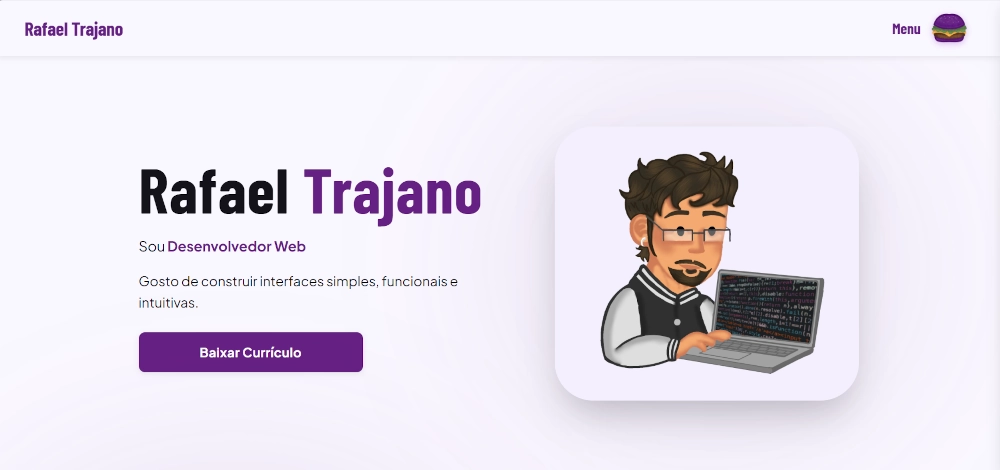
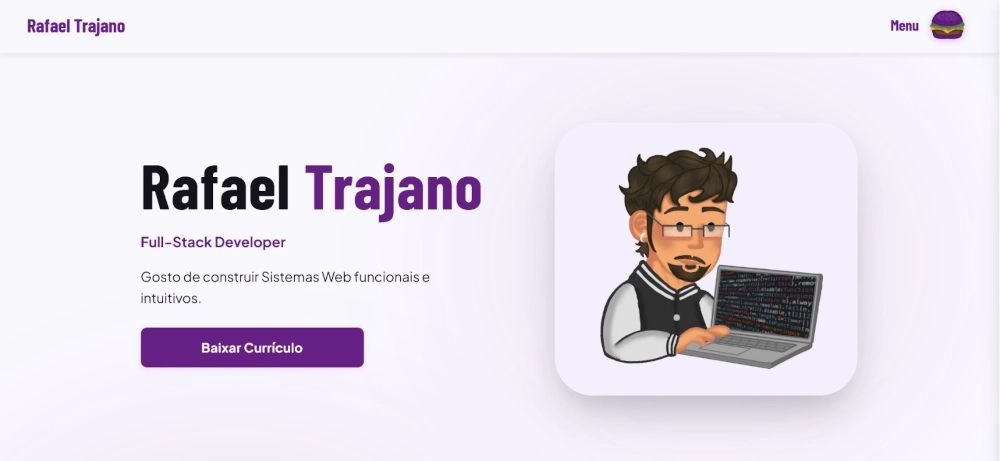
atualizando tecnologias

diff --git a/index.html b/index.html
@@ -2,19 +2,19 @@
 <html lang="pt-BR">
 <head>
     <meta charset="UTF-8">
-    <title>Rafael Trajano | Front-end Developer</title>
+    <title>Rafael Trajano | Full-Stack Developer</title>
     <meta name="viewport" content="width=device-width, initial-scale=1.0">
 
     <meta name="author" content="Rafael Trajano">
     <meta name="theme-color" content="#6D2A89">
-    <meta name="description" content="Portfólio de Rafael Trajano, Front-end Developer especializado em HTML, CSS, JavaScript e React. Conheça meus projetos e habilidades.">
+    <meta name="description" content="Portfólio de Rafael Trajano, Full-Stack Developer especializado em JavaScript, React, Python, FastAPI e testes automatizados (Cucumber, Cypress).">
 
     <meta name="robots" content="index, follow">
 
     <!-- Open Graph -->
-    <meta property="og:title" content="Rafael Trajano | Front-end Developer">
+    <meta property="og:title" content="Rafael Trajano | Full-Stack Developer">
     <meta property="og:type" content="website">
-    <meta property="og:description" content="Conheça o portfólio de Rafael Trajano, Front-end Developer especializado em HTML, CSS, JavaScript e React.">
+    <meta property="og:description" content="Conheça o portfólio de Rafael Trajano, Full-Stack Developer especializado em JavaScript, React, Python, FastAPI e testes automatizados (Cucumber, Cypress).">
     <meta property="og:locale" content="pt_BR">
     <meta property="og:url" content="https://rafaeltrajano.netlify.app/">
     <meta property="og:site_name" content="Rafael Trajano">
@@ -43,7 +43,7 @@
       "@type": "Person",
       "name": "Rafael Trajano",
       "url": "https://rafaeltrajano.netlify.app/",
-      "jobTitle": "Front-end Developer",
+      "jobTitle": "Full-Stack Developer",
       "sameAs": [
         "https://github.com/rafael-trajano",
         "https://www.linkedin.com/in/rafael-trajano"
@@ -97,8 +97,8 @@
     <section id="home" class="home">
         <div class="home-texto">
             <h1 class="animar">Rafael <span>Trajano</span></h1>
-            <p class="home-subtitulo"><strong>Front-end Developer</strong></p>
-            <p class="home-desc">Gosto de construir interfaces simples, funcionais e intuitivas.</p>
+            <p class="home-subtitulo"><strong>Full-Stack Developer</strong></p>
+            <p class="home-desc">Gosto de construir Sistemas Web funcionais e intuitivos.</p>
             <div class="home-cta">
                 <a href="arquivos/curriculo_rafael_trajano.pdf" download class="cta">Baixar Currículo</a>
             </div>
@@ -106,7 +106,7 @@
         <div class="home-imagem-wrap">
             <div class="home-imagem-glow" aria-hidden="true"></div>
             <div class="home-imagem">
-                <img src="imagens/desenho-rafael.webp" alt="Ilustração de Rafael Trajano, Front-end Developer">
+                <img src="imagens/desenho-rafael.webp" alt="Ilustração de Rafael Trajano, Full-Stack Developer">
             </div>
         </div>
     </section>
@@ -117,7 +117,7 @@
     <div class="sobre-imagem-wrap animar">
       <div class="sobre-imagem-glow" aria-hidden="true"></div>
       <div class="sobre-imagem">
-        <img src="imagens/desenho-rafael.webp" alt="Ilustração de Rafael Trajano, Front-end Developer">
+        <img src="imagens/desenho-rafael.webp" alt="Ilustração de Rafael Trajano, Full-Stack Developer" loading="lazy">
       </div>
     </div>
     <div class="sobre-conteudo animar">
@@ -125,8 +125,8 @@
       <h2>Minha Jornada</h2>
       <div class="texto-sobre">
         <p>
-          Olá, me chamo Rafael Trajano, sou graduando em <strong>Ciência da Computação</strong> pela Universidade Estadual da Paraíba, com conclusão prevista para 2027,
-          e possuo formação complementar pela <strong>Meta</strong>, com cursos voltados ao <strong>Desenvolvimento Front-end</strong>.
+          Olá, me chamo Rafael Trajano, sou graduando em <strong>Ciência da Computação</strong> pela Universidade Estadual da Paraíba, com conclusão prevista para dezembro de 2027,
+          e possuo formação complementar pela <strong>Meta</strong>, com cursos voltados ao <strong>Desenvolvimento Web</strong>.
         </p>
         <p>
           Além das habilidades técnicas, sou comunicativo, empático e paciente, qualidades que me ajudam a sempre procurar entender a perspectiva das outras pessoas.
@@ -142,23 +142,69 @@
             <span class="tecnologias-label">Tecnologias</span>
             <h2>Minha Stack</h2>
         </div>
-        <div class="tecnologias-lista">
-            <div class="tecnologias-card animar">
-                <i class="icone icone-html5" aria-hidden="true"></i>
-                <p>HTML5</p>
+        <div class="tecnologias-carrossel animar" aria-label="Tecnologias que utilizo">
+          <div class="tecnologias-track" id="tecnologias-track">
+            <div class="tecnologias-lista" id="tecnologias-lista">
+                <div class="tecnologias-card">
+                    <i class="icone icone-javascript" aria-hidden="true"></i>
+                    <p>JavaScript</p>
+                </div>
+                <div class="tecnologias-card">
+                    <i class="icone icone-react" aria-hidden="true"></i>
+                    <p>React.js</p>
+                </div>
+                <div class="tecnologias-card">
+                    <i class="icone icone-python" aria-hidden="true"></i>
+                    <p>Python</p>
+                </div>
+                <div class="tecnologias-card">
+                    <i class="icone icone-fastapi" aria-hidden="true"></i>
+                    <p>FastAPI</p>
+                </div>
+                <div class="tecnologias-card">
+                    <i class="icone icone-postgresql" aria-hidden="true"></i>
+                    <p>PostgreSQL</p>
+                </div>
+                <div class="tecnologias-card">
+                    <i class="icone icone-cucumber" aria-hidden="true"></i>
+                    <p>Cucumber</p>
+                </div>
+                <div class="tecnologias-card">
+                    <i class="icone icone-cypressio" aria-hidden="true"></i>
+                    <p>Cypress.io</p>
+                </div>
             </div>
-            <div class="tecnologias-card animar">
-                <i class="icone icone-css3" aria-hidden="true"></i>
-                <p>CSS3</p>
+            <div class="tecnologias-lista" aria-hidden="true">
+                <div class="tecnologias-card">
+                    <i class="icone icone-javascript" aria-hidden="true"></i>
+                    <p>JavaScript</p>
+                </div>
+                <div class="tecnologias-card">
+                    <i class="icone icone-react" aria-hidden="true"></i>
+                    <p>React.js</p>
+                </div>
+                <div class="tecnologias-card">
+                    <i class="icone icone-python" aria-hidden="true"></i>
+                    <p>Python</p>
+                </div>
+                <div class="tecnologias-card">
+                    <i class="icone icone-fastapi" aria-hidden="true"></i>
+                    <p>FastAPI</p>
+                </div>
+                <div class="tecnologias-card">
+                    <i class="icone icone-postgresql" aria-hidden="true"></i>
+                    <p>PostgreSQL</p>
+                </div>
+                <div class="tecnologias-card">
+                    <i class="icone icone-cucumber" aria-hidden="true"></i>
+                    <p>Cucumber</p>
+                </div>
+                <div class="tecnologias-card">
+                    <i class="icone icone-cypressio" aria-hidden="true"></i>
+                    <p>Cypress.io</p>
+                </div>
             </div>
-            <div class="tecnologias-card animar">
-                <i class="icone icone-javascript" aria-hidden="true"></i>
-                <p>JavaScript</p>
-            </div>
-            <div class="tecnologias-card animar">
-                <i class="icone icone-react" aria-hidden="true"></i>
-                <p>React</p>
-            </div>
+          </div>
         </div>
     </section>
 
@@ -178,7 +224,7 @@
         <!-- Projeto 1 — VoltControl -->
         <article class="projetos-card animar">
           <div class="projetos-img-wrap">
-            <img src="imagens/imagem-voltcontrol.webp" alt="VoltControl — Dashboard de Monitoramento de Energia">
+            <img src="imagens/imagem-voltcontrol.webp" alt="VoltControl — Dashboard de Monitoramento de Energia" loading="lazy">
             <span class="projetos-tec-badge">React · Chart.js · LocalStorage</span>
           </div>
           <div class="projetos-conteudo">
@@ -195,7 +241,7 @@
         <!-- Projeto 2 — Forrobodó Junino -->
         <article class="projetos-card animar">
           <div class="projetos-img-wrap">
-            <img src="imagens/imagem-forrobodojunino.webp" alt="Site para Evento — Forrobodó Junino">
+            <img src="imagens/imagem-forrobodojunino.webp" alt="Site para Evento — Forrobodó Junino" loading="lazy">
             <span class="projetos-tec-badge">HTML · CSS · JavaScript</span>
           </div>
           <div class="projetos-conteudo">
@@ -212,7 +258,7 @@
         <!-- Projeto 3 — Cachaça Forrobodó -->
         <article class="projetos-card animar">
           <div class="projetos-img-wrap">
-            <img src="imagens/imagem-forrobodo.webp" alt="Site Institucional — Cachaça Forrobodó">
+            <img src="imagens/imagem-forrobodo.webp" alt="Site Institucional — Cachaça Forrobodó" loading="lazy">
             <span class="projetos-tec-badge">HTML · CSS · JavaScript</span>
           </div>
           <div class="projetos-conteudo">
@@ -229,7 +275,7 @@
         <!-- Projeto 4 — Cachaça Afetuosa -->
         <article class="projetos-card animar">
           <div class="projetos-img-wrap">
-            <img src="imagens/imagem-afetuosa.webp" alt="Site Institucional — Cachaça Afetuosa">
+            <img src="imagens/imagem-afetuosa.webp" alt="Site Institucional — Cachaça Afetuosa" loading="lazy">
             <span class="projetos-tec-badge">HTML · CSS · JavaScript</span>
           </div>
           <div class="projetos-conteudo">
@@ -246,7 +292,7 @@
         <!-- Projeto 5 — Portfólio -->
         <article class="projetos-card animar">
           <div class="projetos-img-wrap">
-            <img src="imagens/imagem-portfolio.webp" alt="Portfólio — Rafael Trajano">
+            <img src="imagens/imagem-portfolio.webp" alt="Portfólio — Rafael Trajano" loading="lazy">
             <span class="projetos-tec-badge">HTML · CSS · JavaScript</span>
           </div>
           <div class="projetos-conteudo">

diff --git a/style.css b/style.css
@@ -160,6 +160,9 @@ img {
 .icone-postgresql        { -webkit-mask-image: url("tecnologias/postgresql.svg");        mask-image: url("tecnologias/postgresql.svg"); }
 .icone-python            { -webkit-mask-image: url("tecnologias/python.svg");            mask-image: url("tecnologias/python.svg"); }
 .icone-reactnative       { -webkit-mask-image: url("tecnologias/reactnative.svg");       mask-image: url("tecnologias/reactnative.svg"); }
+.icone-fastapi           { -webkit-mask-image: url("tecnologias/fastapi.svg");           mask-image: url("tecnologias/fastapi.svg"); }
+.icone-cypressio         { -webkit-mask-image: url("tecnologias/cypressio.svg");         mask-image: url("tecnologias/cypressio.svg"); }
+.icone-cucumber          { -webkit-mask-image: url("tecnologias/cucumber.svg");          mask-image: url("tecnologias/cucumber.svg"); }
 
 /* 5. LAYOUT */
 
@@ -564,7 +567,6 @@ main {
     border-radius: 48px;
     box-shadow: var(--shadow-lg);
     overflow: hidden;
-    animation: home-float 4s ease-in-out infinite;
 }
 
 .home-imagem img {
@@ -572,17 +574,6 @@ main {
     height: auto;
     object-fit: contain;
     display: block;
-}
-
-@keyframes home-float {
-    0%, 100% { transform: translateY(0) rotate(0deg); }
-    50% { transform: translateY(-10px) rotate(2deg); }
-}
-
-@media (prefers-reduced-motion: reduce) {
-    .home-imagem {
-        animation: none;
-    }
 }
 
 .home-cta {
@@ -670,7 +661,7 @@ main {
 /* Tecnologias */
 
 .tecnologias {
-    max-width: 900px;
+    max-width: 1100px;
 }
 
 .tecnologias-header {
@@ -684,16 +675,47 @@ main {
     font-size: clamp(1.5rem, 1rem + 2.5vw, 2rem);
 }
 
+/* Carrossel infinito */
+
+.tecnologias-carrossel {
+    position: relative;
+    width: 100%;
+    overflow: hidden;
+    -webkit-mask-image: linear-gradient(to right, transparent, black 60px, black calc(100% - 60px), transparent);
+    mask-image: linear-gradient(to right, transparent, black 60px, black calc(100% - 60px), transparent);
+}
+
+.tecnologias-track {
+    display: flex;
+    width: max-content;
+    animation: tecnologias-marquee 26s linear infinite;
+}
+
+.tecnologias-carrossel:hover .tecnologias-track {
+    animation-play-state: paused;
+}
+
 .tecnologias-lista {
-    display: grid;
-    grid-template-columns: repeat(4, 1fr);
+    display: flex;
+    align-items: center;
     gap: 20px;
-    justify-items: center;
+    padding: 4px 10px;
+}
+
+@keyframes tecnologias-marquee {
+    from { transform: translateX(0); }
+    to { transform: translateX(-50%); }
+}
+
+@media (prefers-reduced-motion: reduce) {
+    .tecnologias-track {
+        animation: none;
+    }
 }
 
 .tecnologias-card {
-    width: 100%;
-    max-width: 130px;
+    flex: 0 0 auto;
+    width: 130px;
     aspect-ratio: 1 / 1;
     background-color: var(--cor-branca);
     border-radius: var(--radius-lg);
@@ -706,10 +728,10 @@ main {
     transition: var(--transition);
 }
 
-.tecnologias-card.animar:hover {
+.tecnologias-card:hover {
     box-shadow: var(--shadow-md);
+    transform: translateY(-4px);
 }
-
 
 .tecnologias-card .icone {
     font-size: 40px;
@@ -997,15 +1019,8 @@ main {
     transform: translateY(0);
 }
 
-/* Delays escalonados — tecnologias */
-.tecnologias-lista .tecnologias-card:nth-child(1) { transition-delay: 0s; }
-.tecnologias-lista .tecnologias-card:nth-child(2) { transition-delay: 0.2s; }
-.tecnologias-lista .tecnologias-card:nth-child(3) { transition-delay: 0.4s; }
-.tecnologias-lista .tecnologias-card:nth-child(4) { transition-delay: 0.6s; }
-
 /* 9. RESPONSIVIDADE */
 
-/* ===== TABLET (1024px) ===== */
 @media (max-width: 1024px) {
     .home {
         gap: 50px;
@@ -1020,7 +1035,6 @@ main {
     }
 }
 
-/* ===== MOBILE (768px) ===== */
 @media (max-width: 768px) {
     section {
         padding: 40px 20px;
@@ -1043,7 +1057,7 @@ main {
     }
 
     .menu-hamburguer-img {
-        width: 75px;
+        width: 62px;
     }
 
     /* Home */
@@ -1105,21 +1119,28 @@ main {
         padding: 24px 20px 60px 20px;
     }
 
+    .tecnologias-carrossel {
+        -webkit-mask-image: linear-gradient(to right, transparent, black 28px, black calc(100% - 28px), transparent);
+        mask-image: linear-gradient(to right, transparent, black 28px, black calc(100% - 28px), transparent);
+    }
+
     .tecnologias-lista {
-        grid-template-columns: repeat(4, 1fr);
-        gap: 10px;
+        gap: 14px;
+        padding: 4px 6px;
     }
 
     .tecnologias-card {
-        max-width: 70px;
+        width: 96px;
+        gap: 8px;
+        border-radius: var(--radius-lg);
     }
 
     .tecnologias-card .icone {
-        font-size: 26px;
+        font-size: 30px;
     }
 
     .tecnologias-card p {
-        font-size: 0.6rem;
+        font-size: 0.7rem;
     }
 
     /* Projetos */
